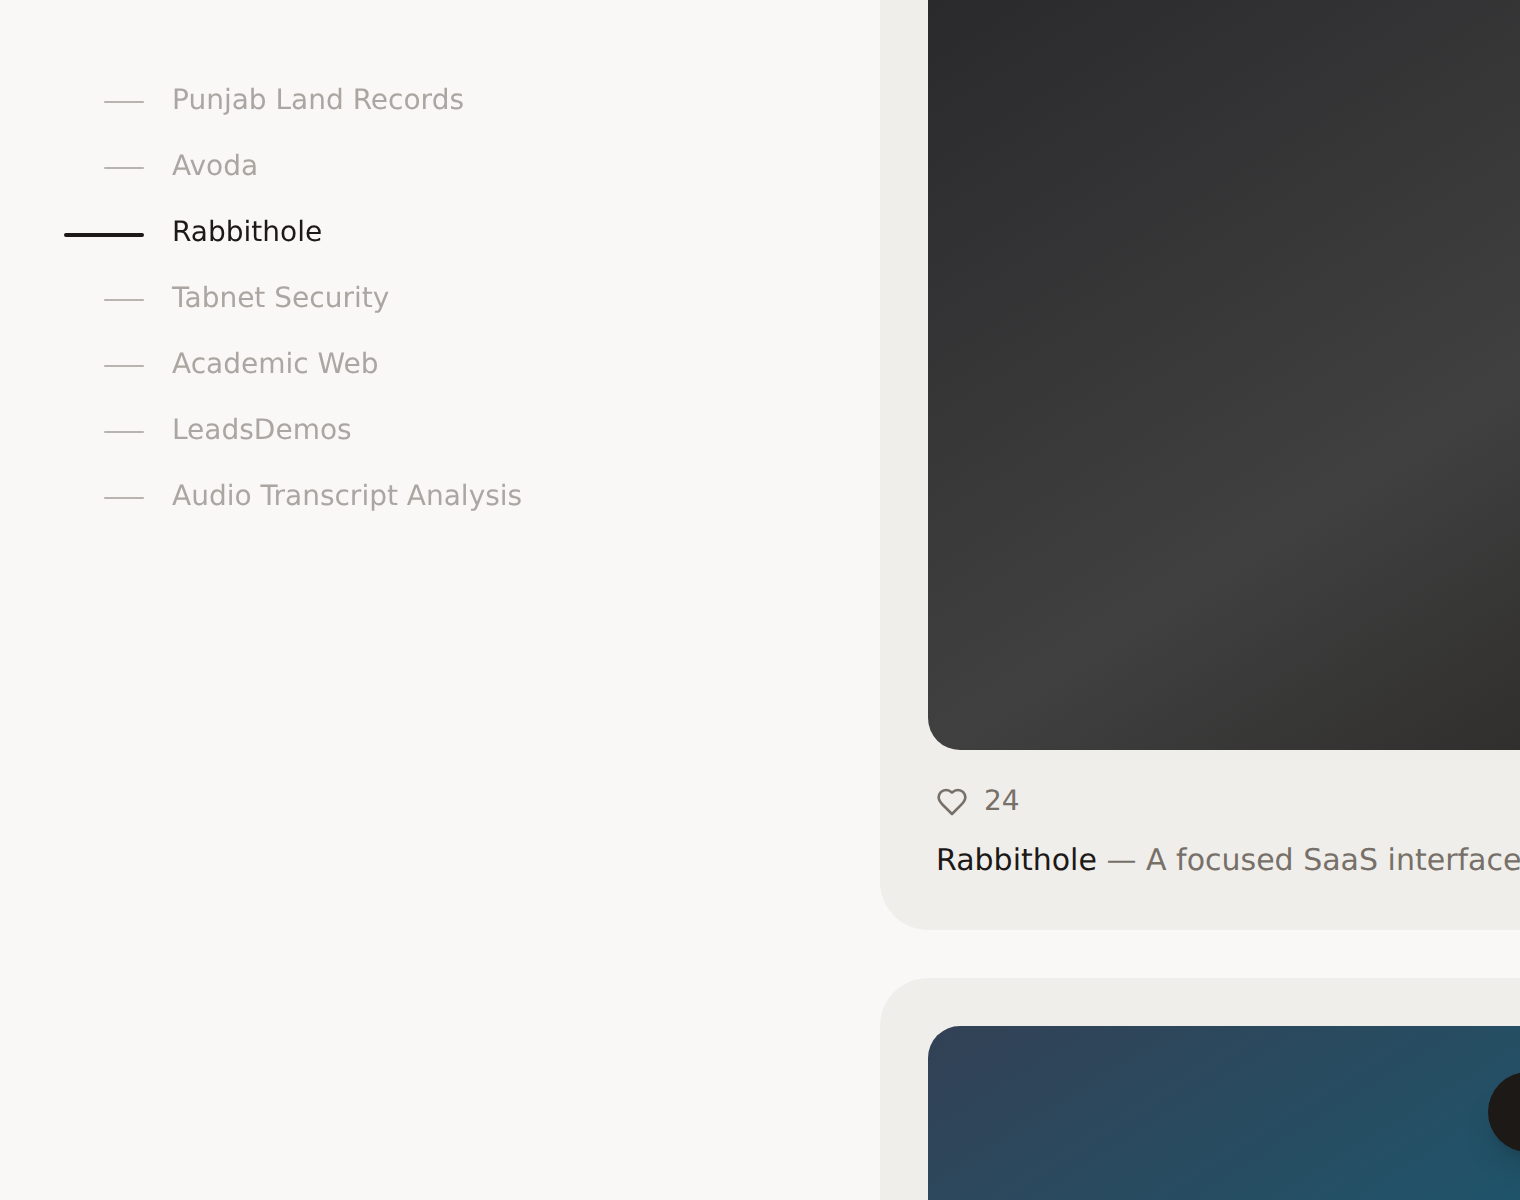
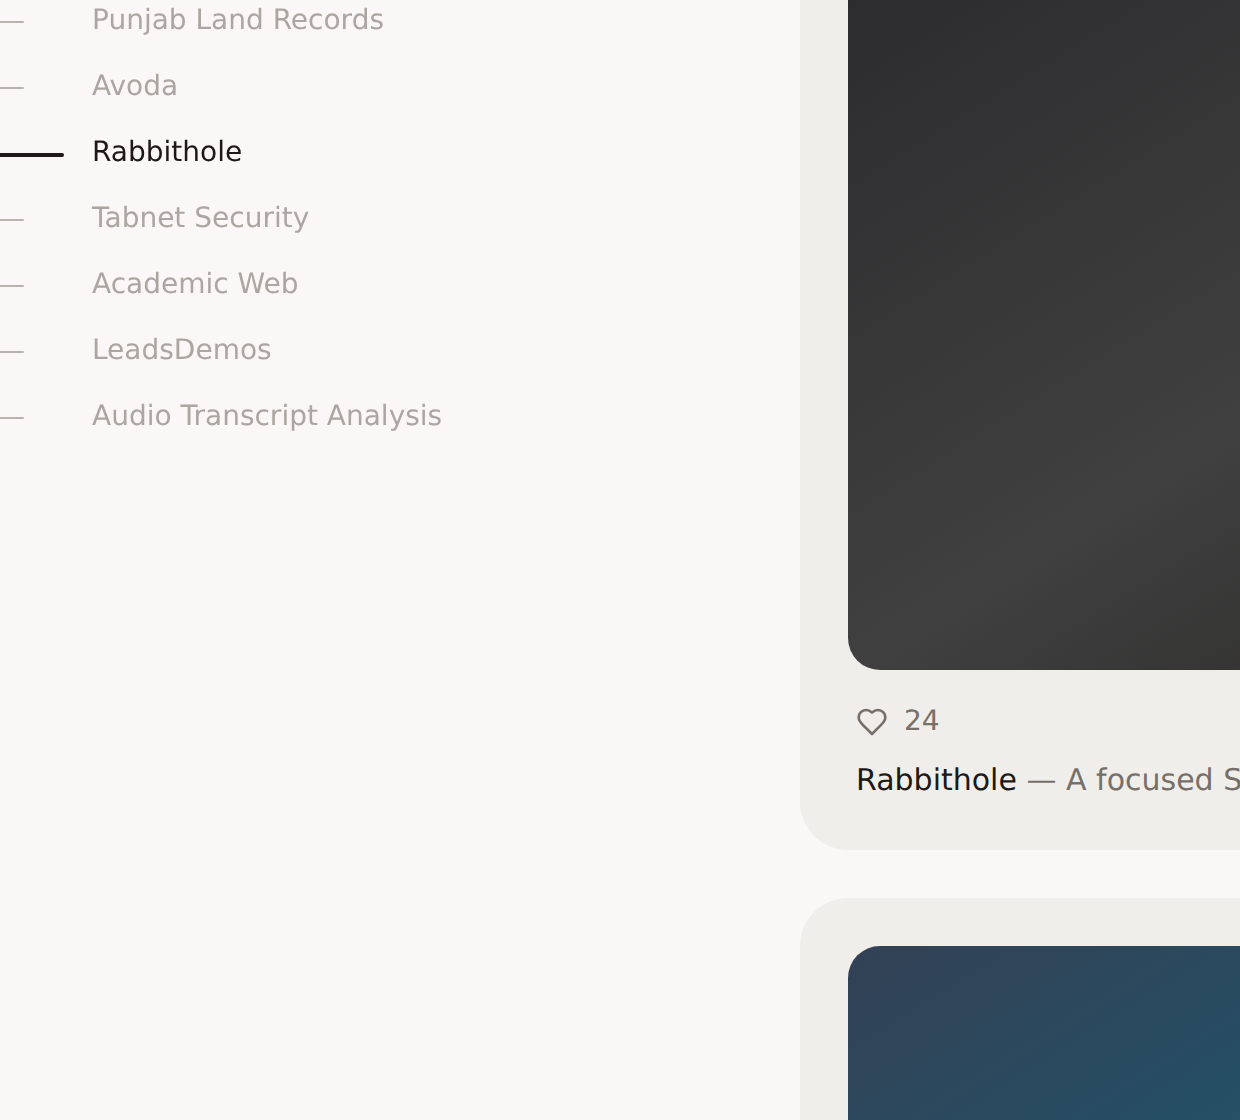
Left-align side-rail line markers (active line extends right)
Claude-Session: https://claude.ai/code/session_0163t1k3oJm8jAD8iydHZ2Dh

diff --git a/src/App.tsx b/src/App.tsx
@@ -153,9 +153,9 @@ function SideNav() {
                     : "text-muted-foreground/60 hover:text-foreground"
                 }`}
               >
-                {/* Fixed-width marker area; the line right-aligns so the active
-                    (longer) line extends leftward like the reference. */}
-                <span className="flex w-10 justify-end" aria-hidden="true">
+                {/* Fixed-width marker area; lines share a left edge and the
+                    active (longer) line extends to the right, per the reference. */}
+                <span className="flex w-10 justify-start" aria-hidden="true">
                   <span
                     className={`rounded-full transition-all duration-300 ease-out ${
                       isActive